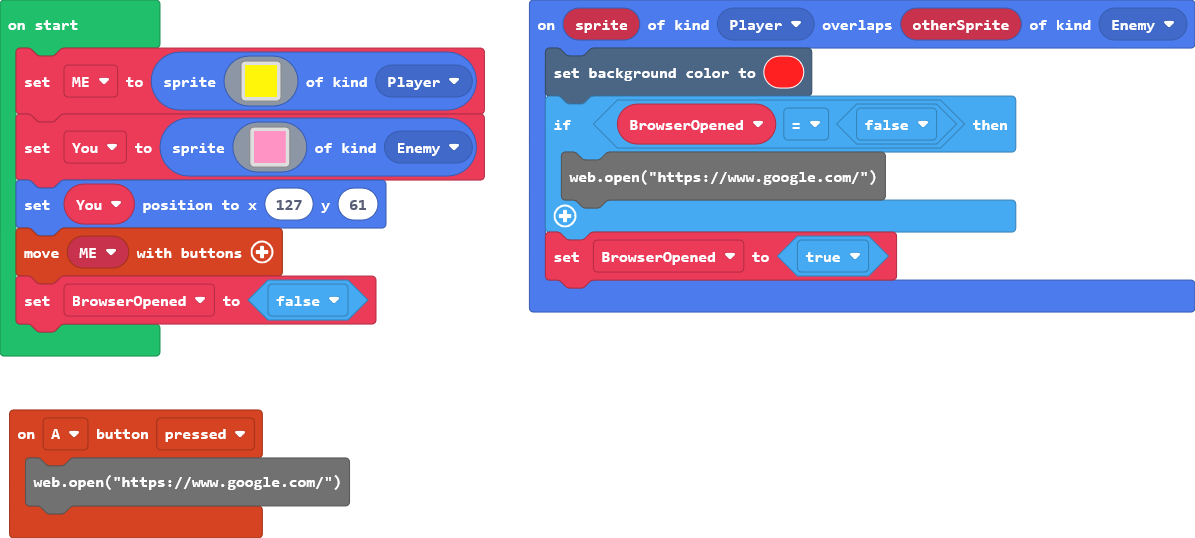
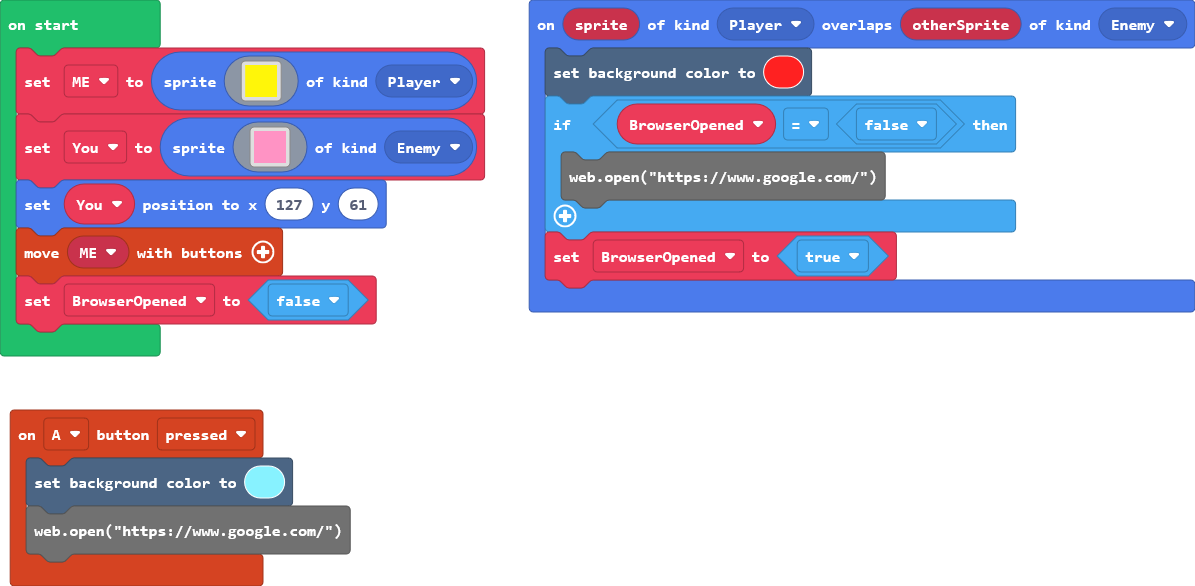
BLUE

Changed region(s): [[0.0, 0.0297, 0.4025, 0.9517], [0.4335, 0.0, 1.0, 0.5948], [0.031, 0.9517, 0.0619, 0.9814]]

diff --git a/main.ts b/main.ts
@@ -1,4 +1,5 @@
 controller.A.onEvent(ControllerButtonEvent.Pressed, function () {
+    scene.setBackgroundColor(9)
     web.open("https://www.google.com/")
 })
 sprites.onOverlap(SpriteKind.Player, SpriteKind.Enemy, function (sprite, otherSprite) {
